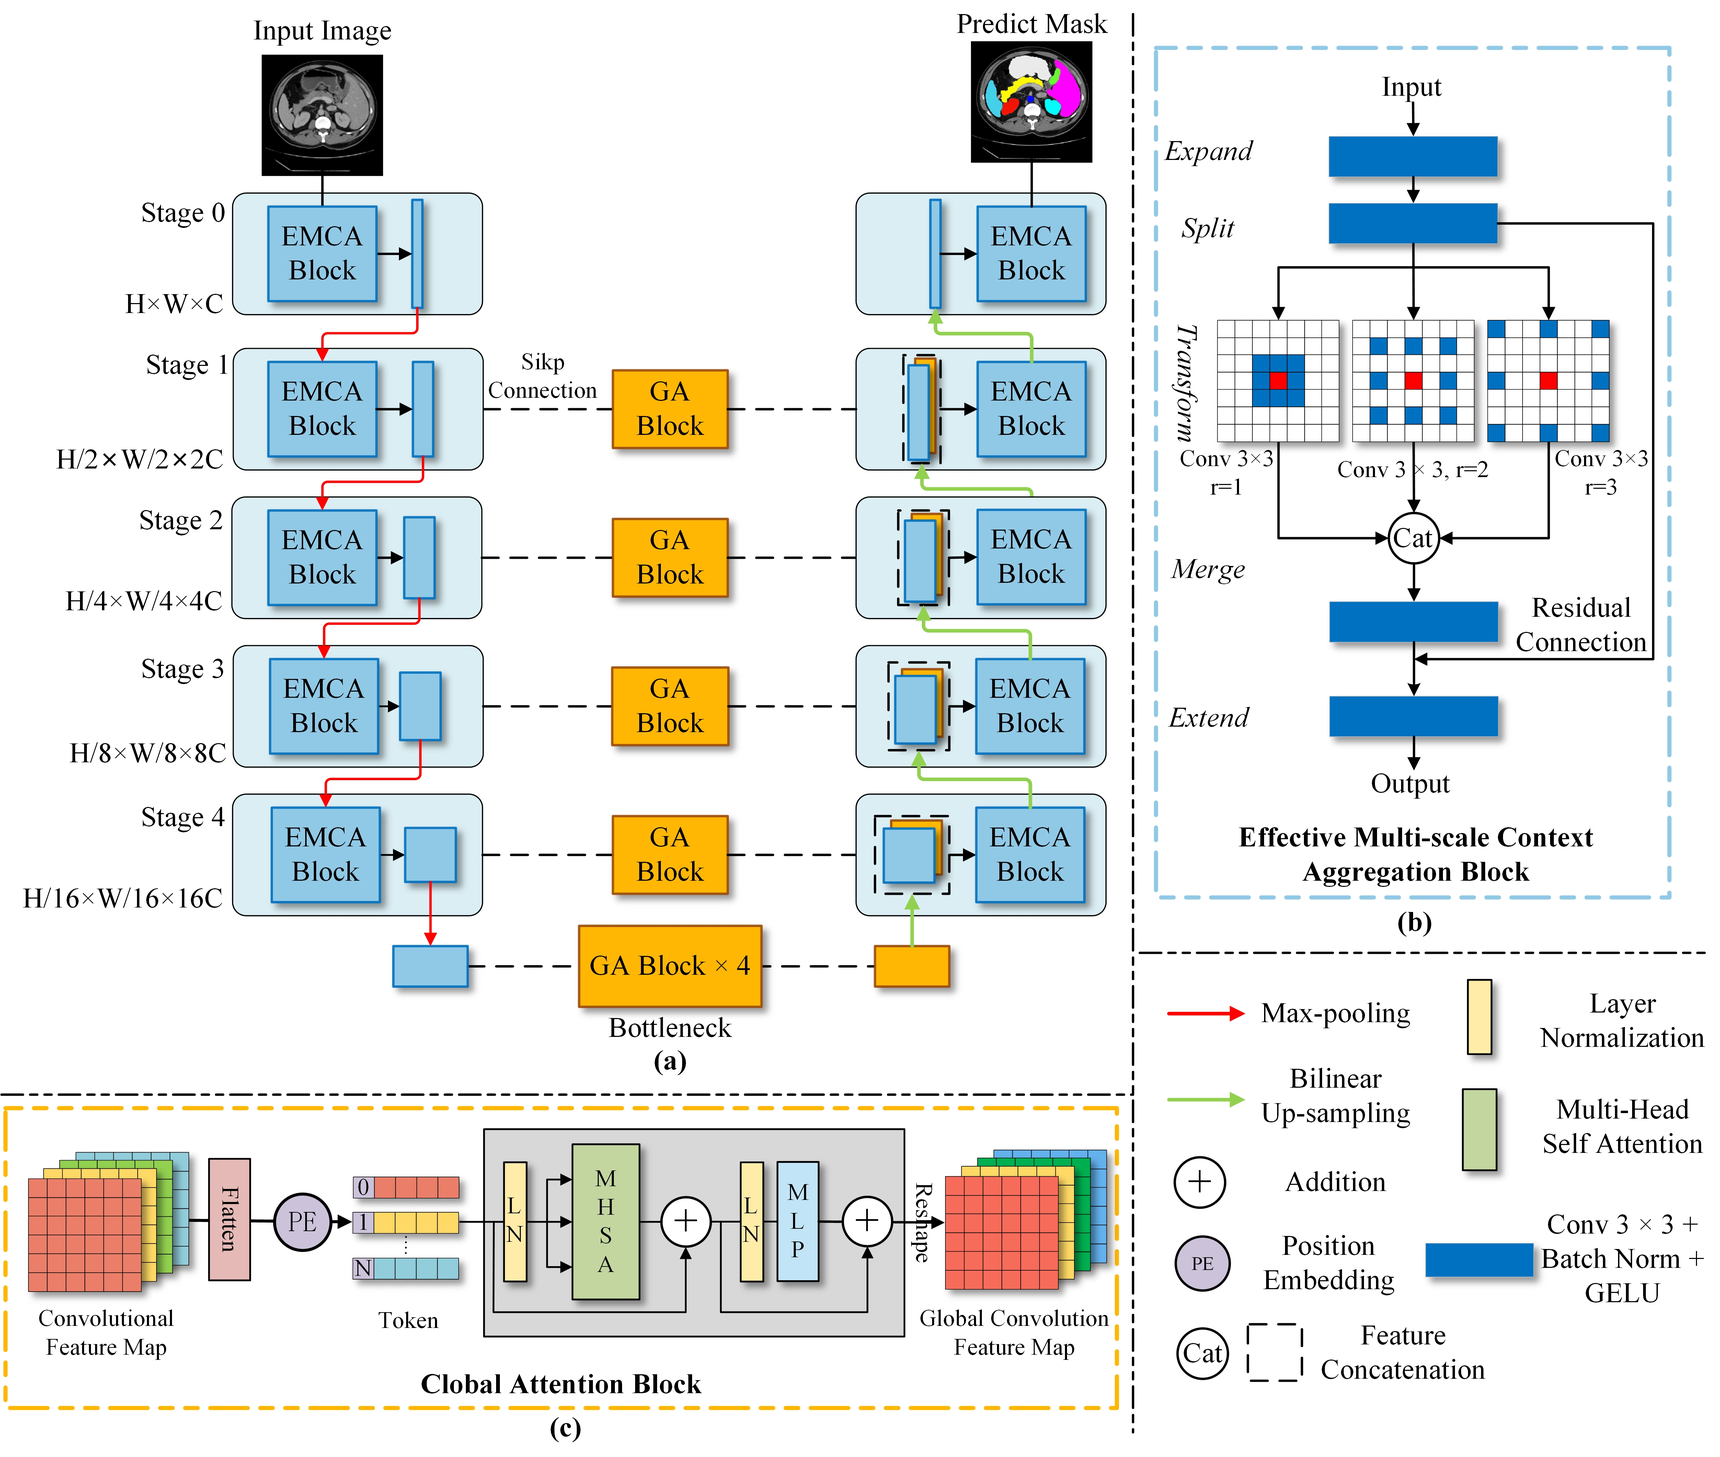
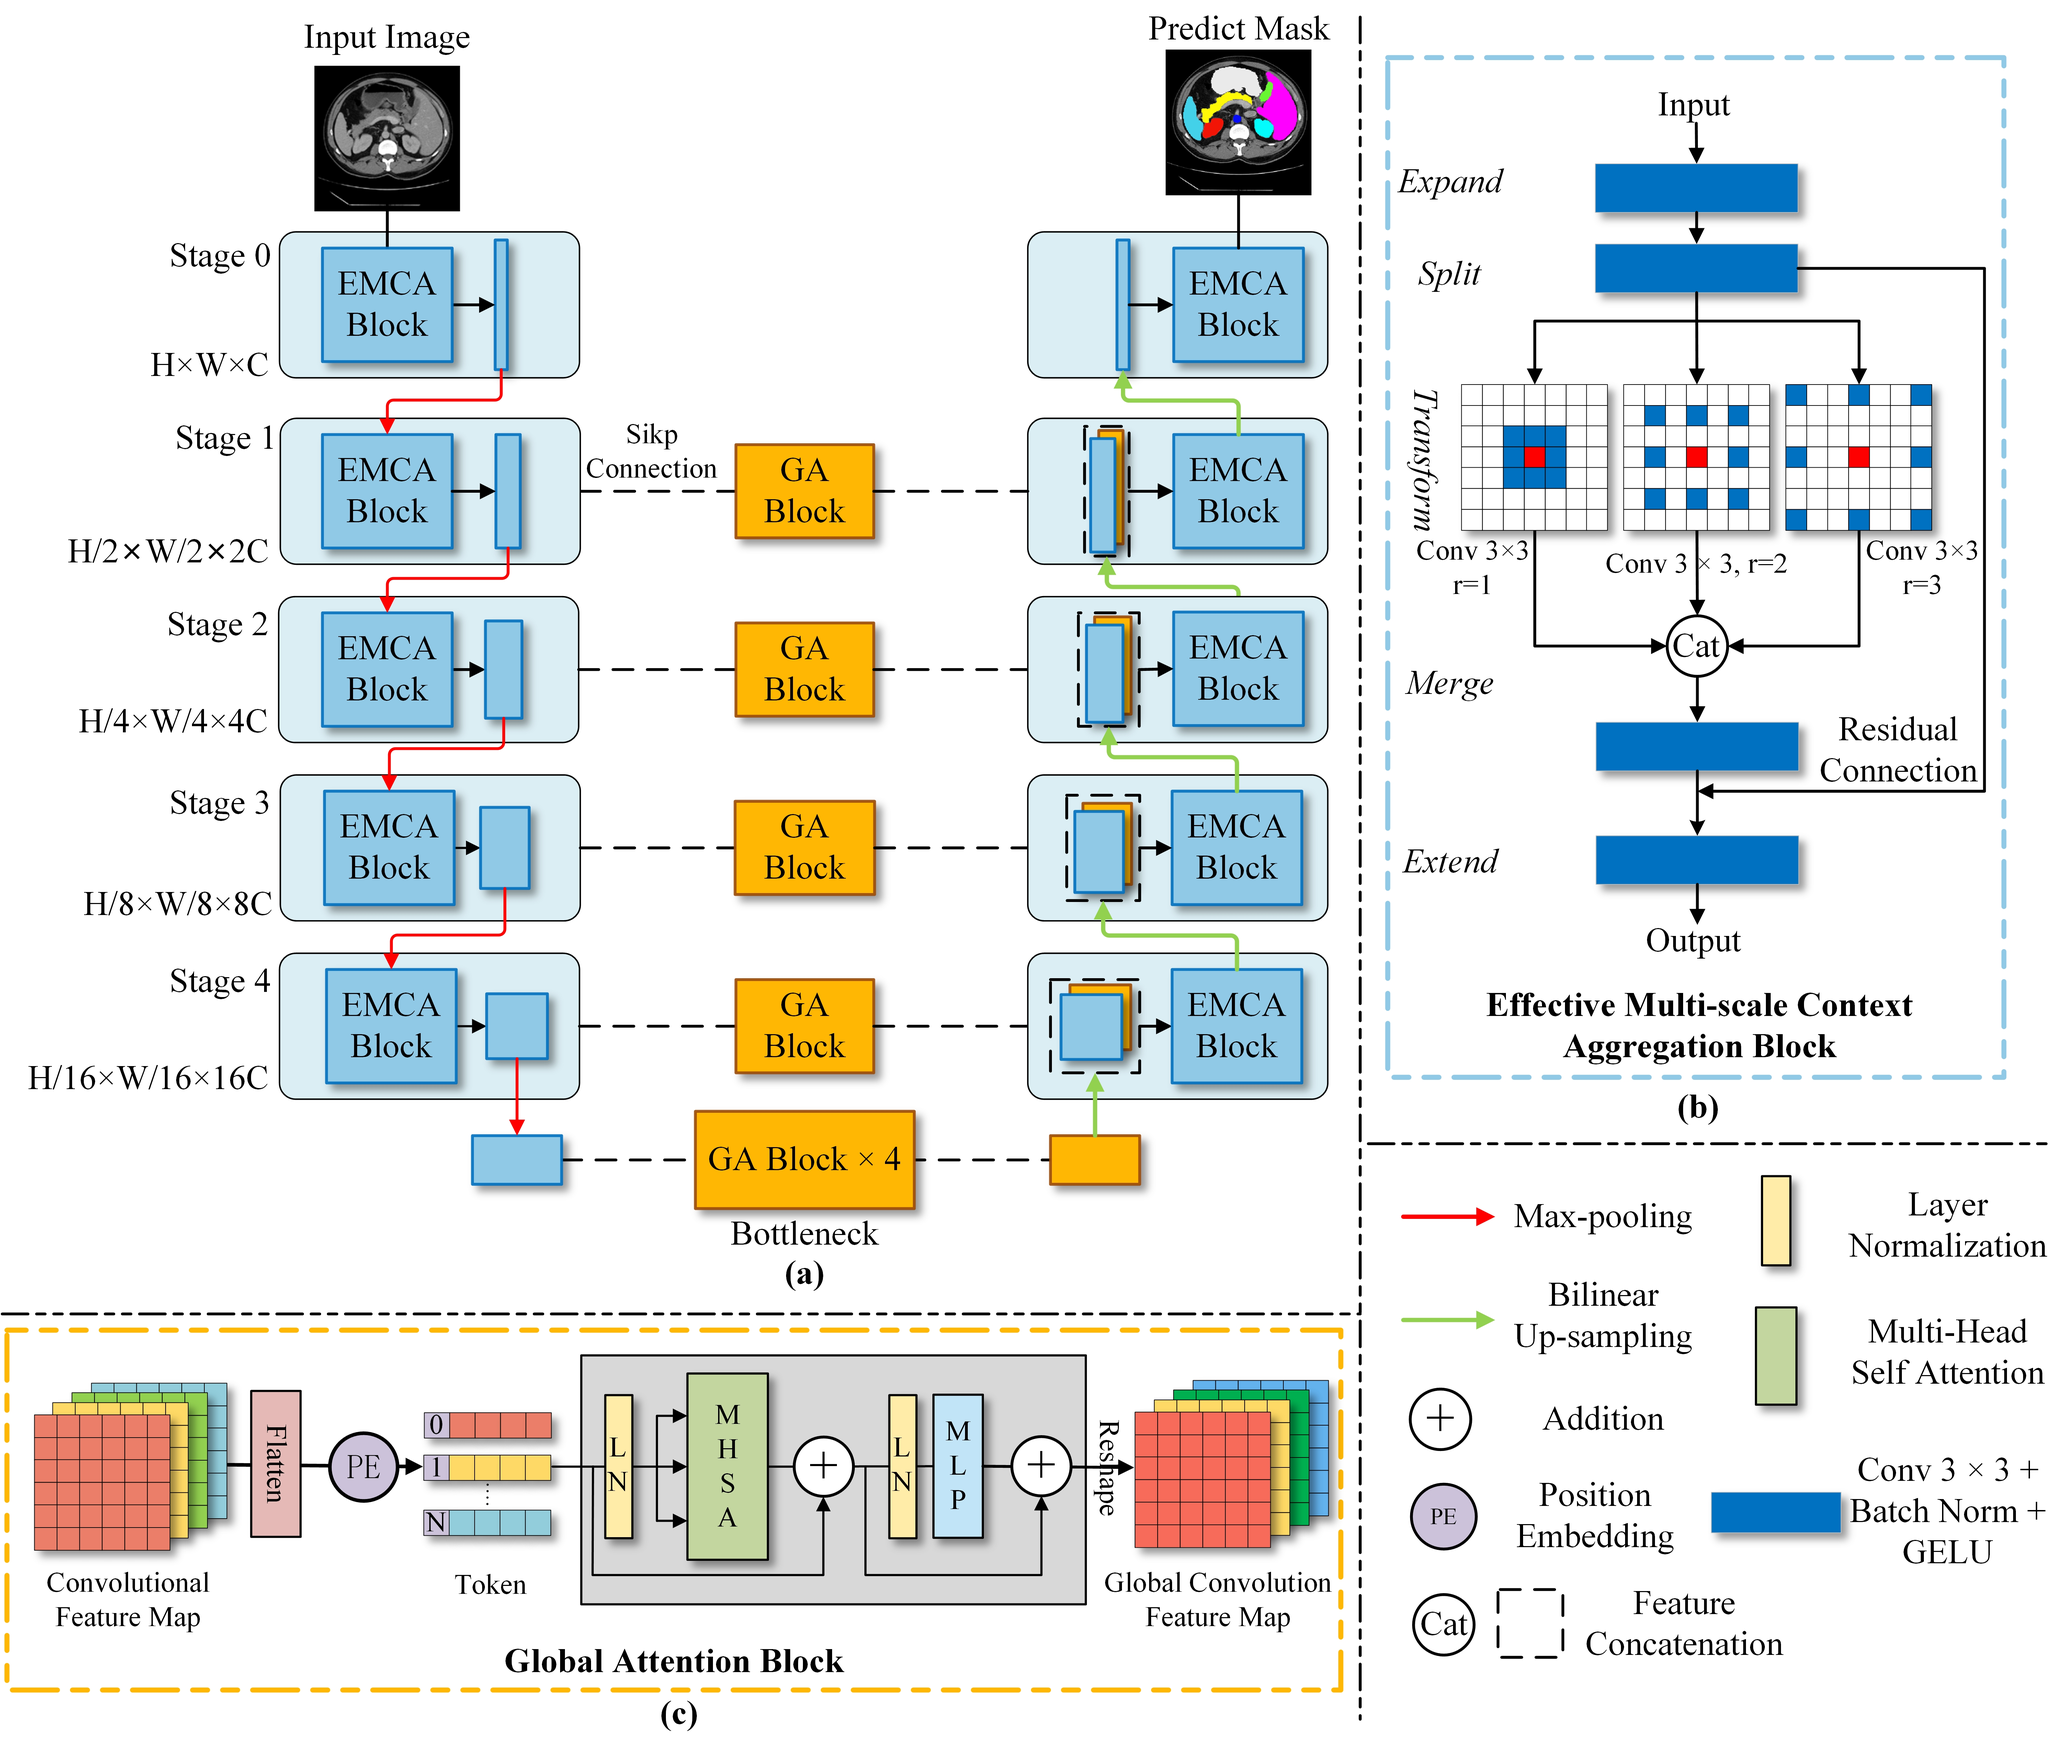
final

diff --git a/README.md b/README.md
@@ -4,7 +4,7 @@ The codes for the work "EMCAH-Net：Efficient Multi-scale Context Aggregation HY
 We updated the Reproducibility. I hope this will help you to reproduce the results.
 
 ## 1. Method
-* Overall architecture of the proposed EMCAH-Net. (b) and (c) respectively represent the Efficient Multi-scale Context Aggregation (EMCA) and Modeling Global Representation (MGR) modules.
+* Overall architecture of the proposed EMCAH-Net. (b) and (c) respectively represent the Efficient Multi-scale Context Aggregation (EMCA) and  Global Attention (GA) blocks.
 
   ![image](https://github.com/AloneIsland/EMCAM-Net/blob/master/tool/EMCAH-Net.jpg)
 
